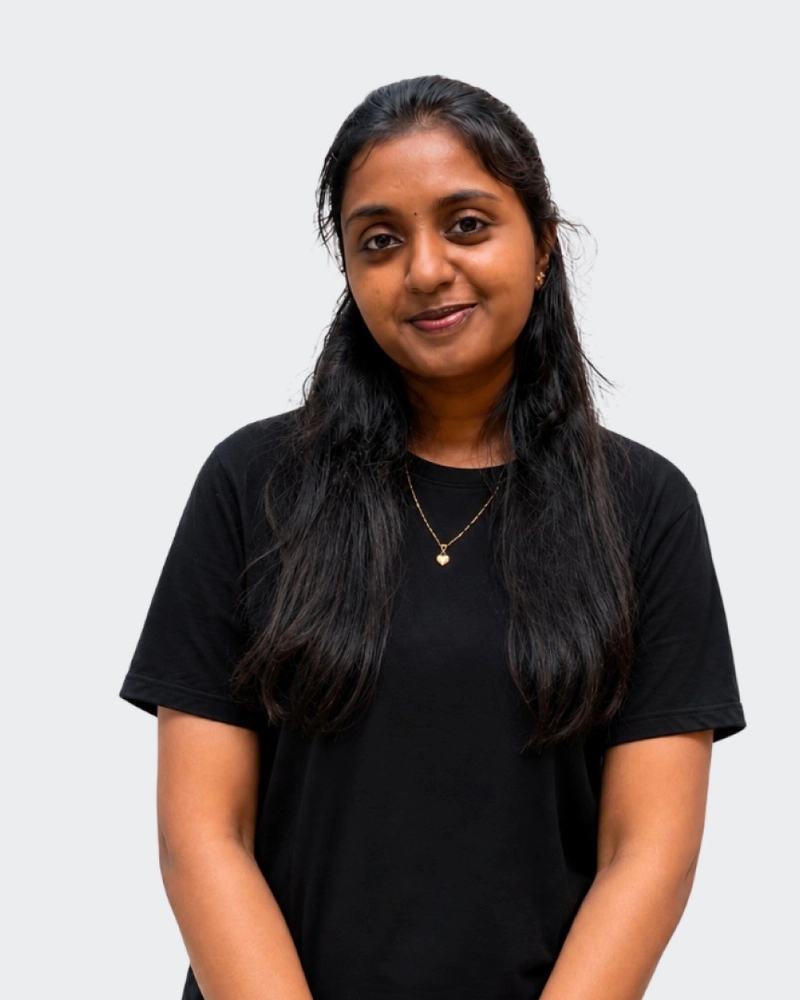
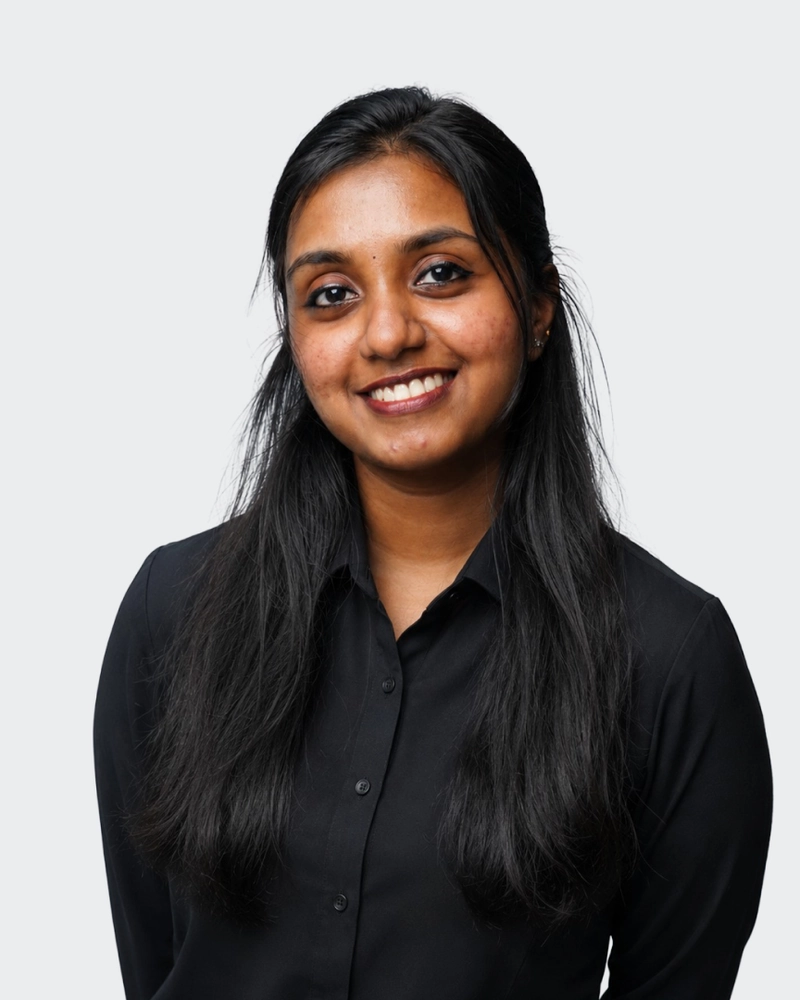
fixes

diff --git a/resize.js b/resize.js
@@ -1,35 +1,35 @@
-// const sharp = require("sharp");
+const sharp = require("sharp");
 
-// sharp("public/file-1774848159661-53105578.webp")
-//     // .resize(200, 2--, {
-//     //     fit: "cover",
-//     //     position: "centre",
-//     // })
-//     .webp({ quality: 75, effort: 6 })
-//     .toFile("public/hdjkfh.webp")
-//     .then(() => console.log("✅ Done"))
-//     .catch(console.error);
+sharp("public/file-1774848159661-53105578.webp")
+    // .resize(200, 2--, {
+    //     fit: "cover",
+    //     position: "centre",
+    // })
+    .webp({ quality: 75, effort: 6 })
+    .toFile("public/hdjkfh.webp")
+    .then(() => console.log("✅ Done"))
+    .catch(console.error);
 
 // ---------------------------------------------------
 
 //logos
 
-const sharp = require("sharp");
+// const sharp = require("sharp");
 
-sharp("public/employee/celiba.png")
-    .resize({
-        width: 800,
-        height: 1000,
-        fit: "cover",
-        // position: "top", // auto-focus important area
-    })
-    .webp({
-        quality: 100,
-        effort: 6
-    })
-    .toFile("public/celiba.webp")
-    .then(() => console.log("✅ Done"))
-    .catch(console.error);
+// sharp("public/employee/priya.png")
+//     .resize({
+//         width: 800,
+//         height: 1000,
+//         fit: "cover",
+//         // position: "top", // auto-focus important area
+//     })
+//     .webp({
+//         quality: 100,
+//         effort: 6
+//     })
+//     .toFile("public/priya.webp")
+//     .then(() => console.log("✅ Done"))
+//     .catch(console.error);
 
 
 // ----------------------------------------------------

diff --git a/src/app/ClientLayout.tsx b/src/app/ClientLayout.tsx
@@ -6,7 +6,6 @@ import Navbar from "../components/layout/Navbar";
 import Footer from "../components/layout/Footer";
 
 import CustomObject from "../shared/components/CustomObjects";
-import PageScroll from "../shared/components/PageScroll";
 import Collaboration from "../shared/components/Collaboration";
 import SocialMediaTag from "../shared/components/SocialMediaTag";
 
@@ -88,15 +87,14 @@ export default function ClientLayout({
                         lg:h-[50vh]
                         2xl:block
                     `}
-                    variants="circle-2"
+                    variants="circle-3"
                 /> */}
 
                 <CustomObject
-                    className={`${isAboutPage || isBlogPage ? "hidden" : "block"} absolute -z-10 -top-16 -right-16 w-65 h-65 md:-top-40 md:-right-40 md:w-100 md:h-100`}
-                    variants="circle-2"
+                    className={`${isAboutPage || isBlogPage ? "hidden" : "block"} absolute -z-10 -top-16 -right-16 w-45 h-45 md:-top-40 md:-right-40 md:w-80 md:h-80`}
+                    variants="circle-3"
                     priority
                 />
-
 
                 {/* <PageScroll /> */}
 

diff --git a/src/components/layout/Footer.tsx b/src/components/layout/Footer.tsx
@@ -60,7 +60,7 @@ export default function Footer({
                             width={100}
                             height={80}
                             className="w-16 h-auto mb-4"
-                            // className="h-16 w-auto mb-4"
+                        // className="h-16 w-auto mb-4"
                         />
 
                         <h6 className="text-sm font-semibold">
@@ -107,6 +107,13 @@ export default function Footer({
                                 <p>{siteInfo[0]?.address}</p>
                             </div>
                         )}
+
+                        <div className="pt-6 text-gray-300">
+
+                            <b>Sharjah</b><br />
+                            Muweilah - 96648
+
+                        </div>
 
                     </div>
 

diff --git a/src/shared/components/CustomObjects.tsx b/src/shared/components/CustomObjects.tsx
@@ -7,7 +7,7 @@ interface CustomObjectProps {
   | "green"
   | "orange-half-circle-lines"
   | "hero-left-full"
-  | "circle-2"
+  | "circle-3"
   | "blue-short-line-left"
   | "hero-left-full-gif"
   | "purple-dots"
@@ -41,7 +41,7 @@ function CustomObject({
     "line-purple-left":
       "/images/objects/purple-line-left.webp",
 
-    "circle-2":
+    "circle-3":
       "/images/objects/circle-3.webp",
 
     "half-dash-yellow":
